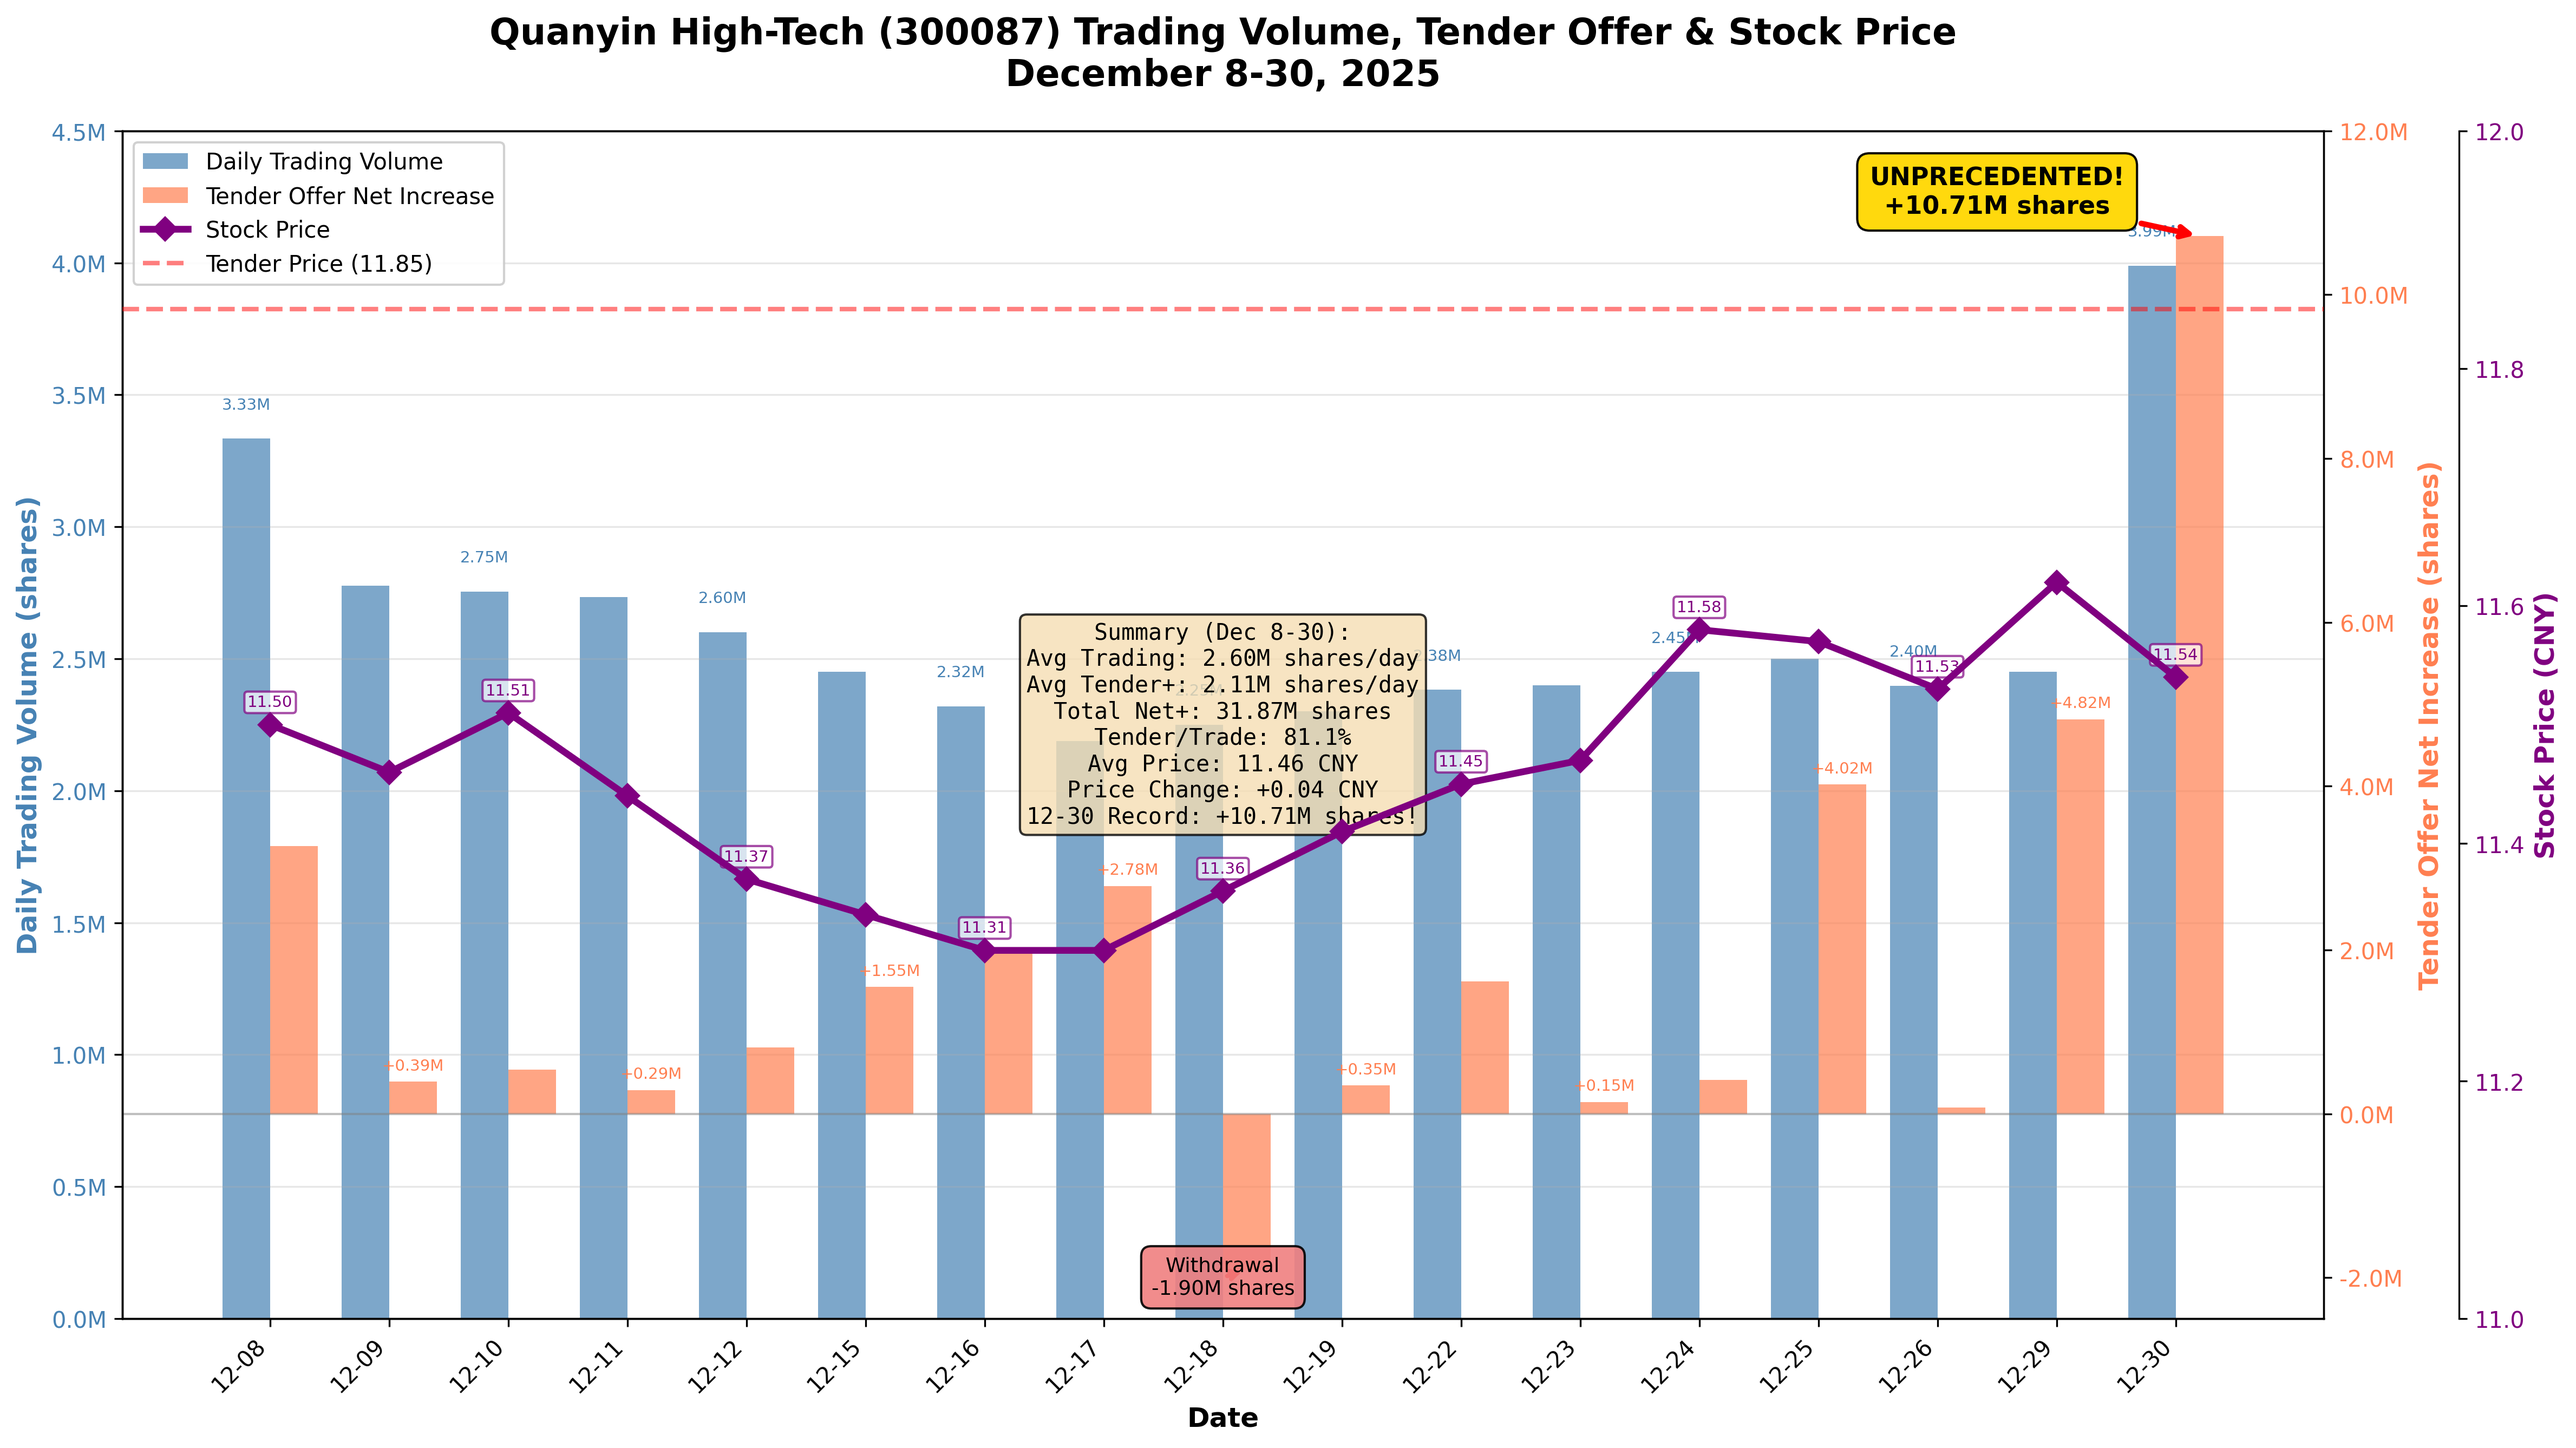
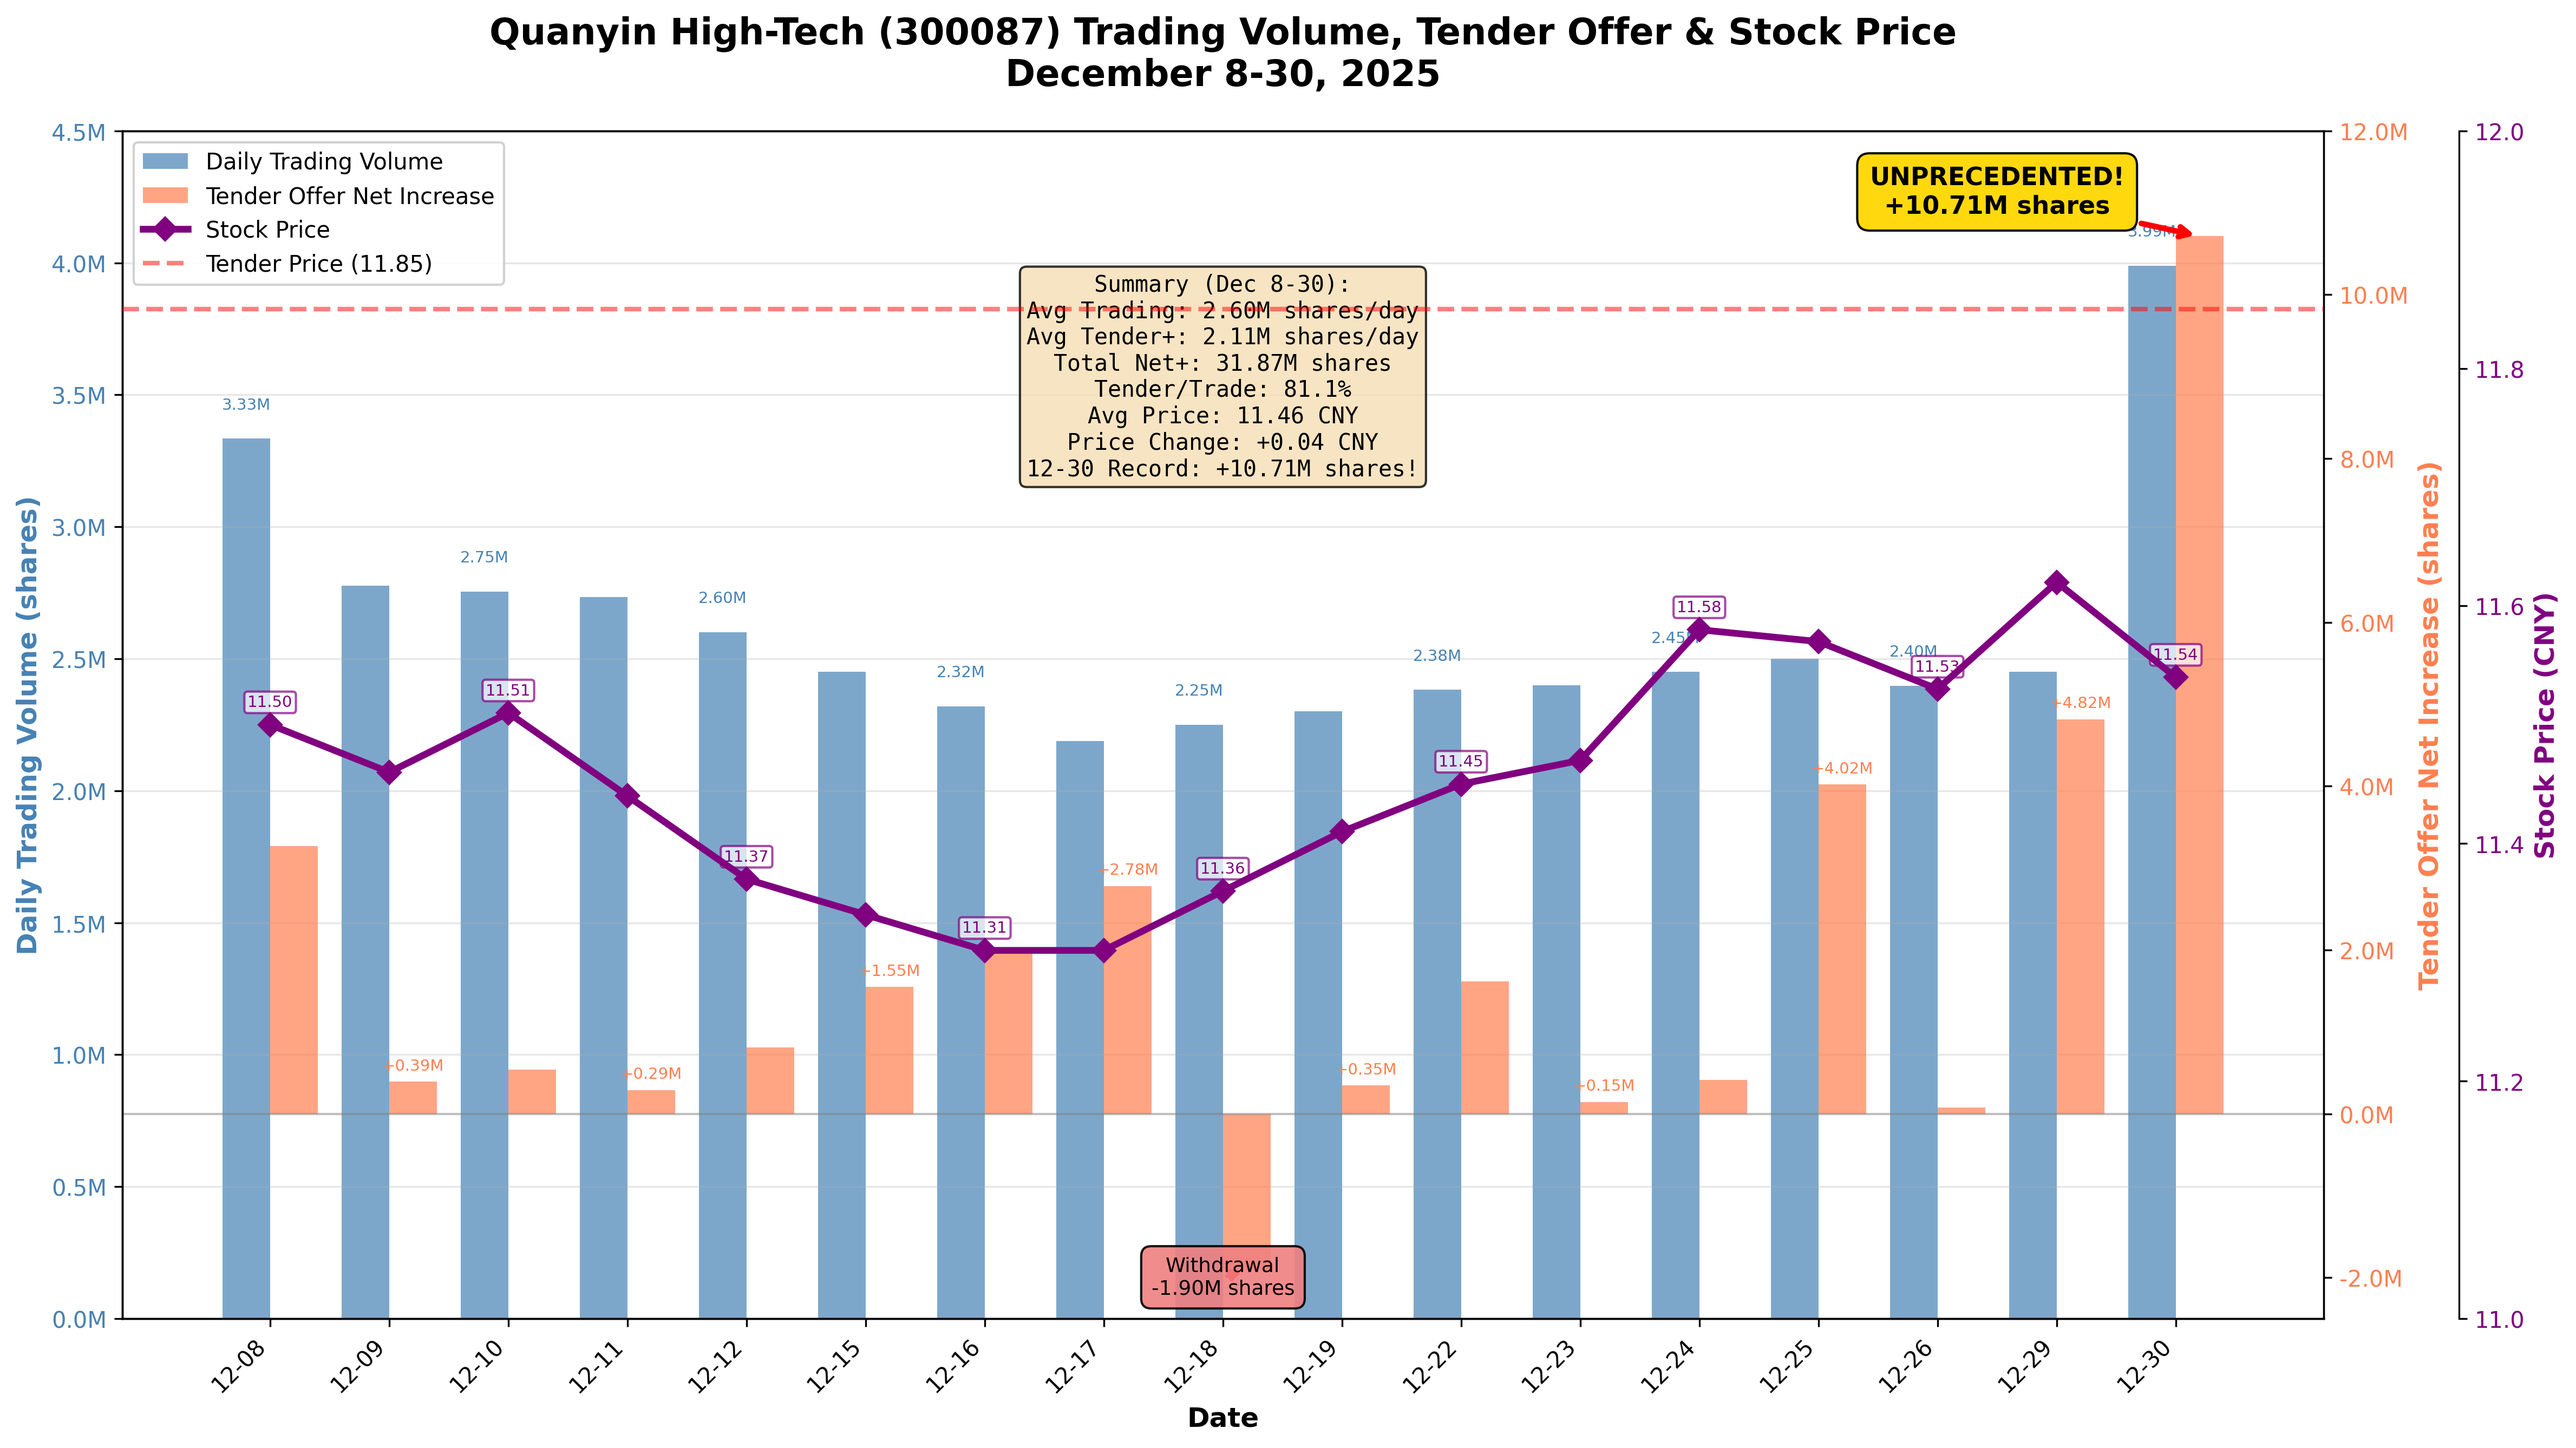
将Summary框移至图表上方中间位置
- Summary框从正中央(0.50, 0.50)移至上方中间(0.50, 0.88)
- 避免遮挡中间区域的数据柱状图
- UNPRECEDENTED标注保持在右上角
- 提升图表数据可读性

Changed region(s): [[0.3733, 0.4034, 0.5599, 0.5895], [0.3733, 0.1862, 0.5599, 0.3413]]

diff --git a/05_quanyin_tender_offer/generate_volume_comparison_chart.py b/05_quanyin_tender_offer/generate_volume_comparison_chart.py
@@ -233,8 +233,8 @@ Price Change: {price_change:+.2f} CNY
 12-30 Record: +10.71M shares!'''
 
 props = dict(boxstyle='round', facecolor='wheat', alpha=0.8)
-ax1.text(0.50, 0.50, stats_text, transform=ax1.transAxes,  # Moved to center
-         fontsize=10, verticalalignment='center', horizontalalignment='center',
+ax1.text(0.50, 0.88, stats_text, transform=ax1.transAxes,  # Upper middle
+         fontsize=10, verticalalignment='top', horizontalalignment='center',
          bbox=props, family='monospace')
 
 # Adjust layout
